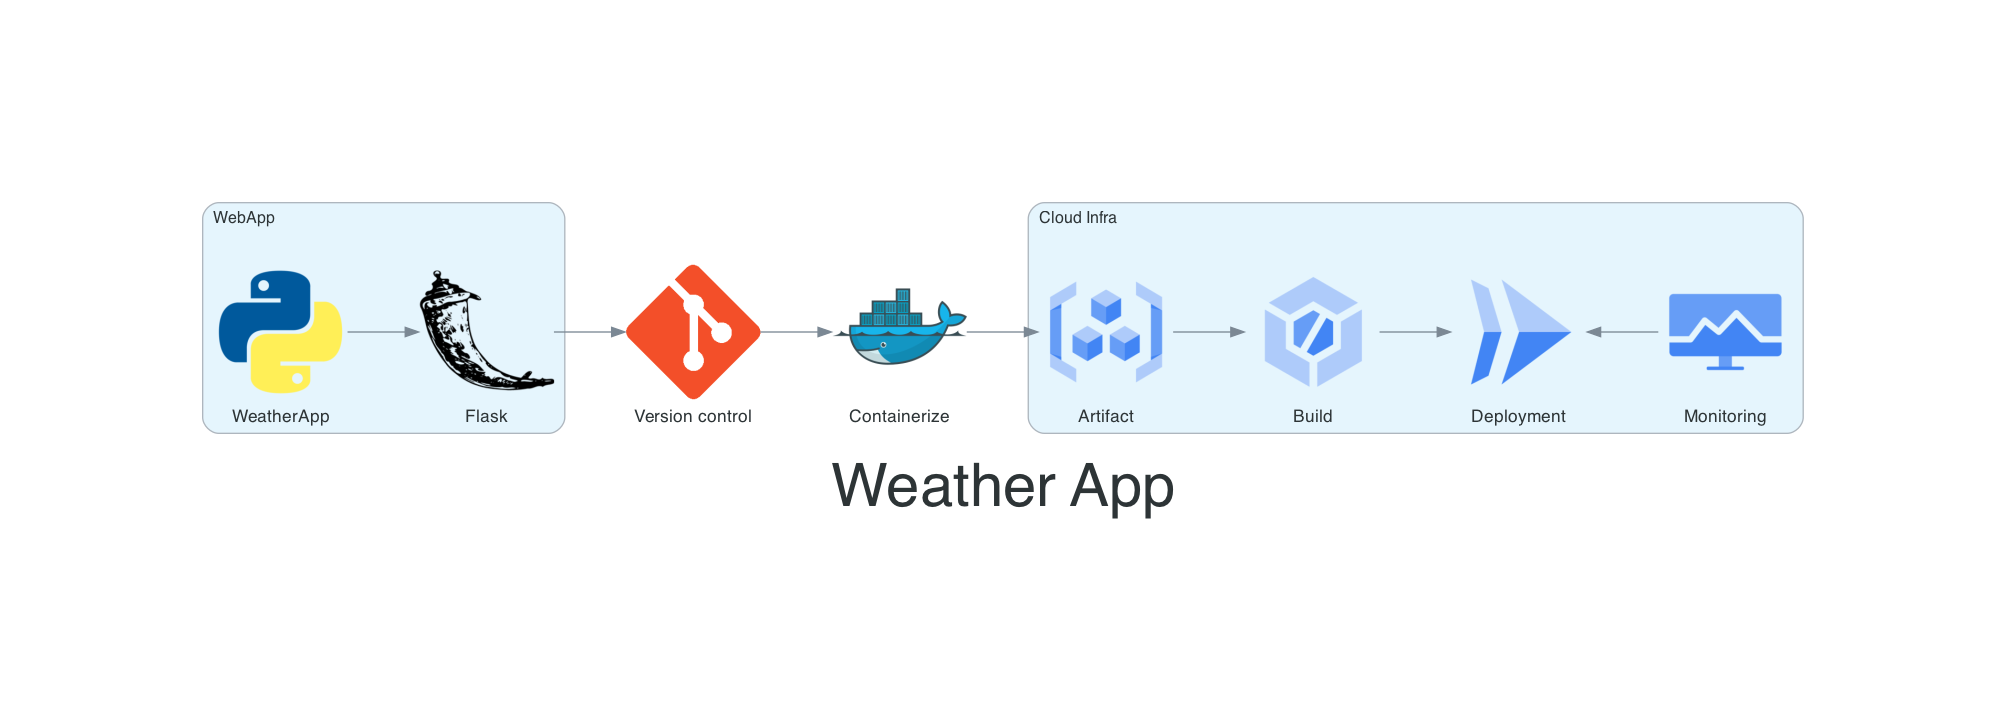
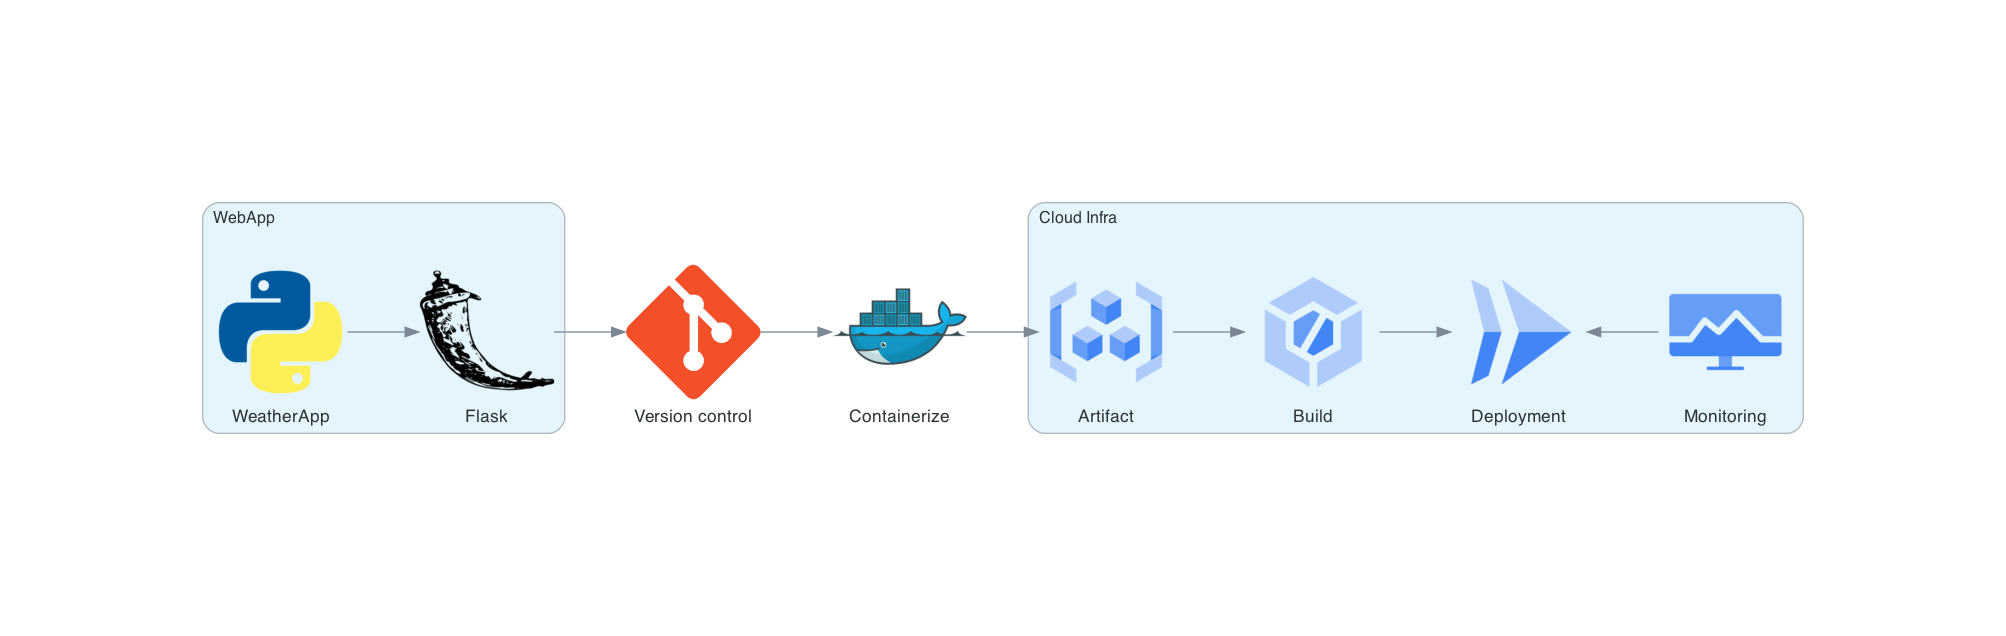
- Fixing diagrams

Changed region(s): [[0.0927, 0.2689, 0.8963, 0.717], [0.4945, 0.2689, 0.8963, 0.3585]]

diff --git a/diagram.py b/diagram.py
@@ -9,12 +9,7 @@ from diagrams.gcp.devtools import Build
 from diagrams.gcp.compute import Run
 from diagrams.gcp.operations import Monitoring
 
-graph_attr = {
-    "fontsize": "45",
-    "bgcolor": "transparent"
-}
-
-with Diagram(show=False, graph_attr= graph_attr):
+with Diagram(filename="weather_app", show=False):
 
     with Cluster("WebApp"):
         python = Python("WeatherApp")
